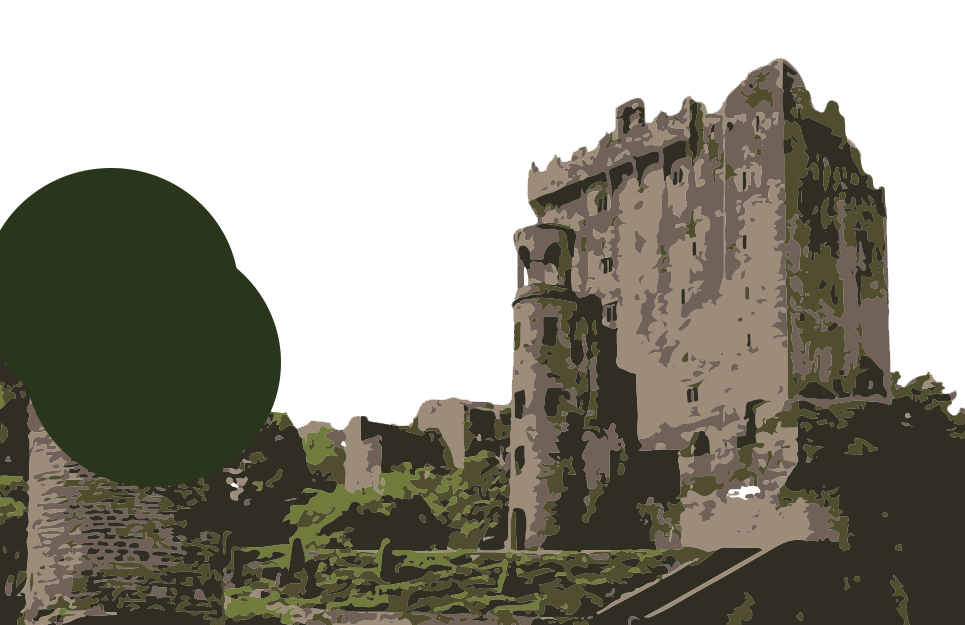
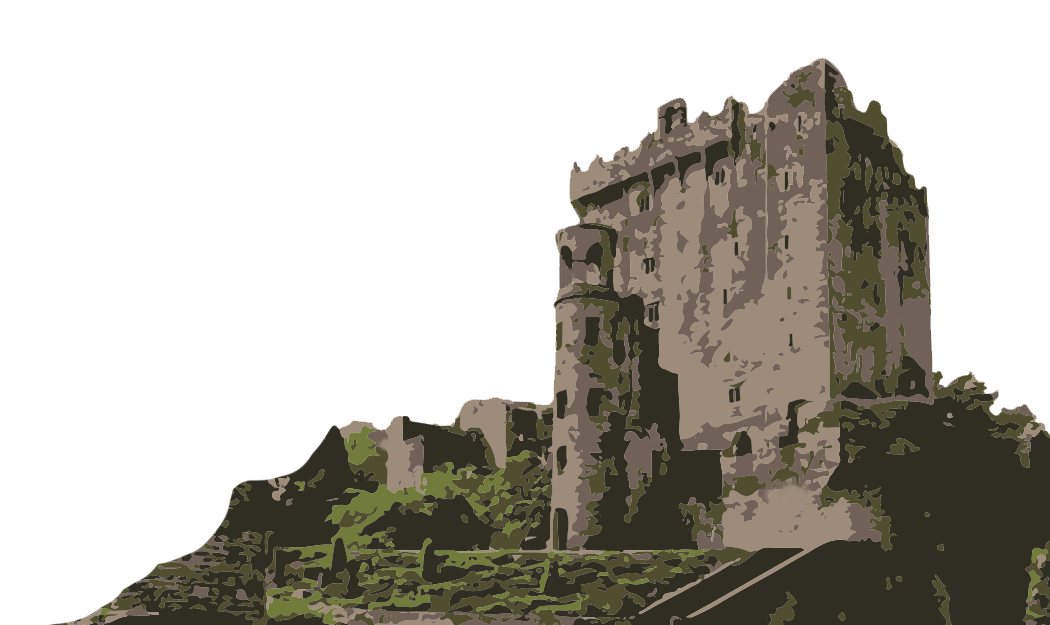
update background image on land page

diff --git a/styles/components/page-header.css b/styles/components/page-header.css
@@ -4,15 +4,24 @@
     height: 90dvh;
     /* background: linear-gradient(to right, var(--apple-green), var(--apple-green2)); */
     background-color: var(--bg-pg-header);
-    background: url('../../assets/images/landpage-bg.png');
     display: flex;
     flex-direction: column;
     justify-content: center;
-    padding-left: 10dvh;
     font-size: 1.8rem;
     gap: 20px;
     color: var(--cream);
     position: relative;
+}
+.page-header::after {
+
+    content: '';
+    position: absolute;
+    width: 100%;
+    height: 100%;
+    background: url('../../assets/images/landpage-bg.png');
+    background-repeat: no-repeat;
+    background-position: right bottom;
+        
 }
 
 .page-header__heading {
@@ -26,4 +35,10 @@
 }
 .page-header__link {
     margin-top: 20px;
+}
+
+.page-header__heading,
+.page-header__desc,
+.page-header__link {
+    transform: translateX(15vw);
 }

diff --git a/styles/abstract/reset.css b/styles/abstract/reset.css
@@ -11,6 +11,7 @@ body {
     font-family: "Atkinson Hyperlegible", sans-serif;
     font-weight: 400;
     font-style: normal;
+    overflow-x: hidden;
 }
 
 a, li {
